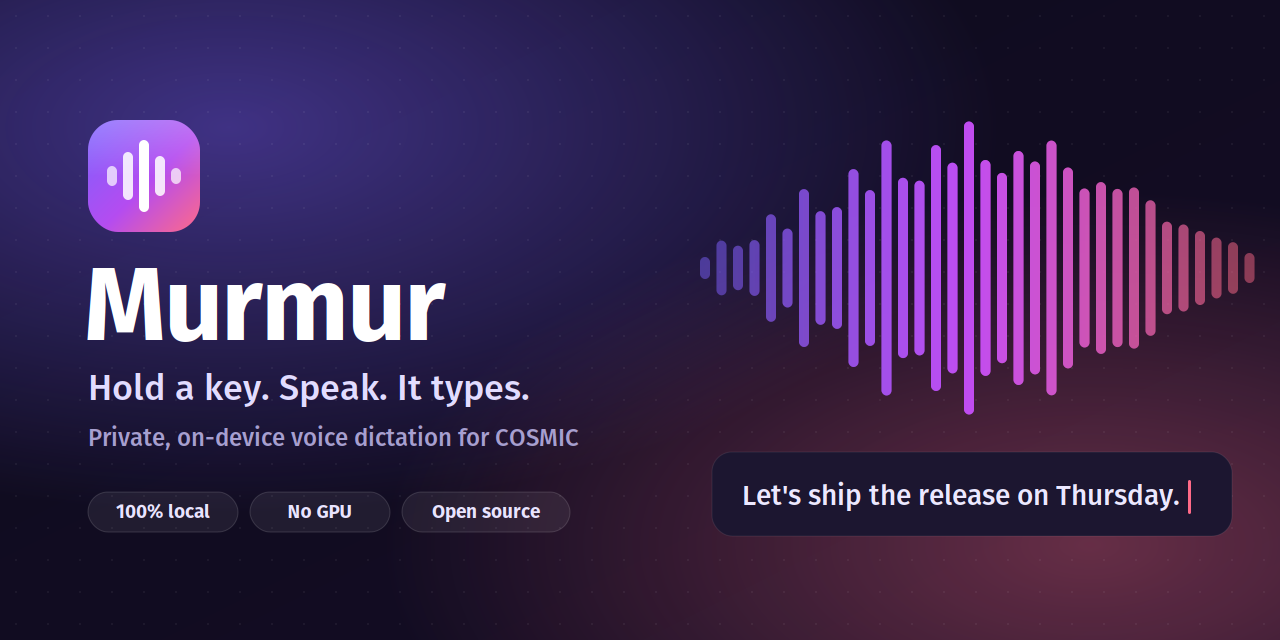
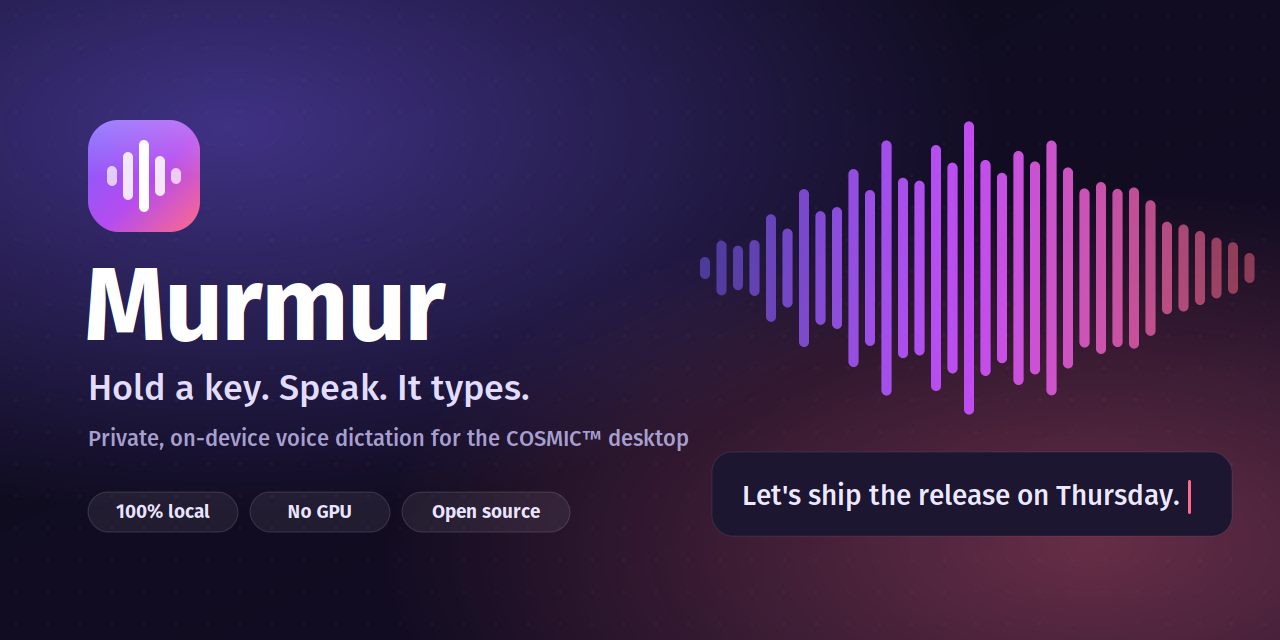
release: 0.1.1
- Store listing leads with the panel applet screenshot.
- Describe Murmur as "for the COSMIC™ desktop" per System76's
  trademark policy, with a non-affiliation notice in the README.

Changed region(s): [[0.0625, 0.6562, 0.5312, 0.7188]]

diff --git a/README.md b/README.md
@@ -5,14 +5,14 @@
 [![CI](https://github.com/markmiddo/murmur/actions/workflows/ci.yml/badge.svg)](https://github.com/markmiddo/murmur/actions/workflows/ci.yml)
 [![Release](https://img.shields.io/github/v/release/markmiddo/murmur)](https://github.com/markmiddo/murmur/releases/latest)
 [![License: MIT](https://img.shields.io/badge/license-MIT-blue.svg)](LICENSE)
-![Platform: COSMIC](https://img.shields.io/badge/desktop-COSMIC-8b5cf6.svg)
+![For the COSMIC™ desktop](https://img.shields.io/badge/for-COSMIC%E2%84%A2%20desktop-8b5cf6.svg)
 ![Rust](https://img.shields.io/badge/rust-2024-orange.svg)
 
 </div>
 
 ---
 
-Murmur lives in your COSMIC panel. Hold **Right Alt**, say what you want to
+Murmur is voice dictation for the COSMIC™ desktop. It lives in your panel. Hold **Right Alt**, say what you want to
 write, and let go. A moment later the text appears in whatever window you're
 using (terminal, browser, editor, chat), with punctuation and capitals.
 
@@ -62,7 +62,7 @@ Dictation tools tend to break quietly. Murmur is designed not to:
 
 ## Requirements
 
-- [COSMIC desktop](https://system76.com/cosmic) on Wayland, with PipeWire
+- The [COSMIC™ desktop](https://system76.com/cosmic) on Wayland, with PipeWire
 - `wtype` and `wl-clipboard` (bundled in the Flatpak)
 - Your user in the `input` group, so Murmur can see the push-to-talk key:
   ```sh
@@ -227,6 +227,10 @@ See [CONTRIBUTING.md](CONTRIBUTING.md) for how to send changes.
 - [wtype](https://github.com/atx/wtype)
 
 ## License
+
+COSMIC is a trademark of System76, Inc. Murmur is an independent
+project and is not affiliated with or endorsed by System76.
+
 
 [MIT](LICENSE). The speech models are © NVIDIA and licensed under
 [CC-BY-4.0](https://creativecommons.org/licenses/by/4.0/); Murmur downloads

diff --git a/CHANGELOG.md b/CHANGELOG.md
@@ -4,6 +4,13 @@ All notable changes to Murmur are documented here. The format follows
 [Keep a Changelog](https://keepachangelog.com/en/1.1.0/), and versions follow
 [Semantic Versioning](https://semver.org).
 
+## [0.1.1] - 2026-09-26
+
+### Changed
+
+- The store listing now leads with a screenshot of the panel applet.
+- Wording now follows the COSMIC™ trademark policy for third-party apps.
+
 ## [0.1.0] - 2026-09-26
 
 First release.
